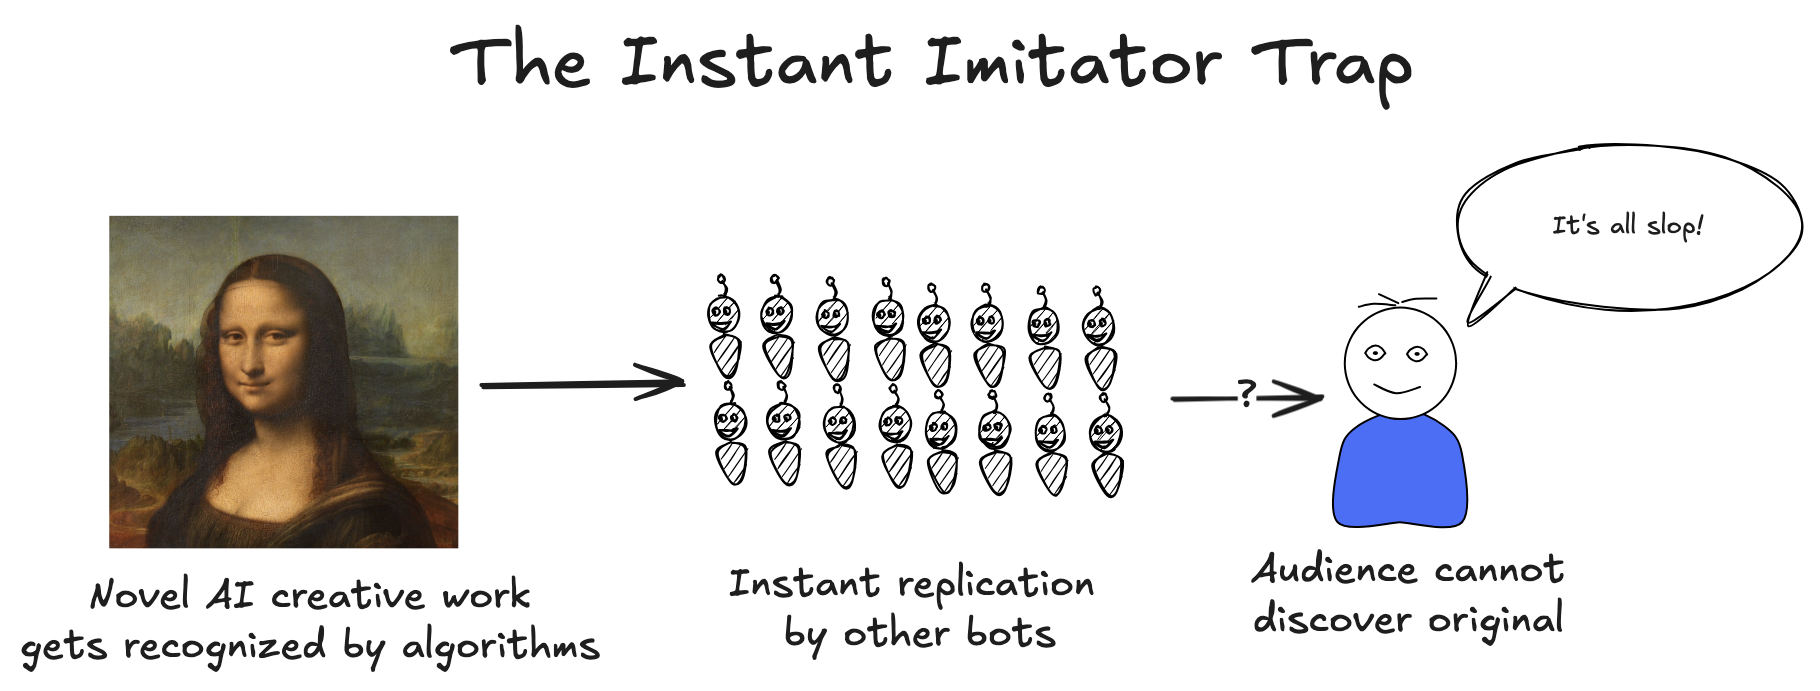
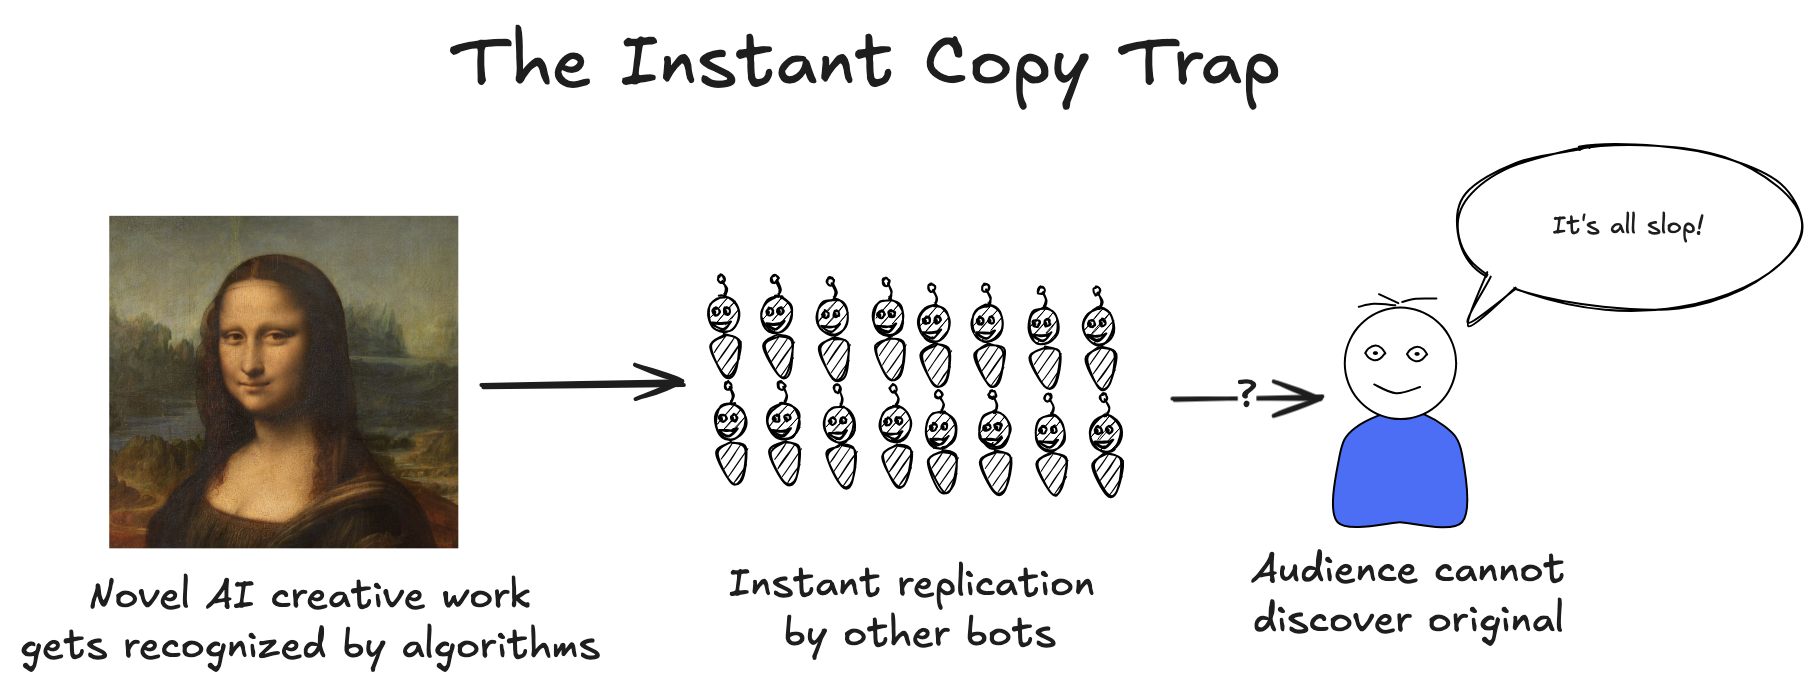
update title

Changed region(s): [[0.4923, 0.0304, 0.8, 0.152]]

diff --git a/blog/creativity.md b/blog/creativity.md
@@ -1,5 +1,5 @@
 ---
-title: "Can AI be Creative?"
+title: The Instant Copy Trap Makes AI Creativity Impossible
 date: 2026-04-15
 ---
 
@@ -7,13 +7,13 @@ date: 2026-04-15
 
 The debate on this question usually centers on the quality of AI output in a vacuum, but if we take connection with an audience as a requirement, we must consider the supply and demand of "creative"[^1] work.
 
-In this framing, AI artists face what I'll call the **instant imitator trap**: Any original AI work can be instantly replicated by other AIs, making audience recognition of the original impossible.
-
-[^1]: For simplicity I'll omit scare quotes from here on out, but note: I don't think AI can be an artist!
+In this framing, AI artists face what I'll call the **instant copy trap**: Any original AI work can be instantly replicated by other AIs, making audience recognition of the original impossible.
 
 ![ai_dilemma](/diagrams/creativity/ai_dilemma.png)
 
 <!-- truncate -->
+
+[^1]: For simplicity I'll omit scare quotes from here on out, but note: I don't think AI can be an artist!
 
 To go deeper, some definitions are in order.
 
@@ -59,7 +59,7 @@ The instant replication and lack of an "author" means the original work cannot b
 
 ## Conclusion: Technological irony
 
-The instant imitator trap precludes creative recognition, *regardless of model capabilities*. It doesn't matter if models become 10x smarter or more technically adept. So long as work can be instantly generated and algorithmically distributed, recognition of originality (to the degree that any AI work can be said to be original) is impossible.
+The instant copy trap precludes creative recognition, *regardless of model capabilities*. It doesn't matter if models become 10x smarter or more technically adept. So long as work can be instantly generated and algorithmically distributed, recognition of originality (to the degree that any AI work can be said to be original) is impossible.
 
 The story isn't entirely rosy for human creators. Algorithmic distribution of AI work can and does eat into human artists' market share, but this is a problem platforms are working to address. It's in their interest - people are not actively selecting AI-generated work, as the death of Sora demonstrates.
 
